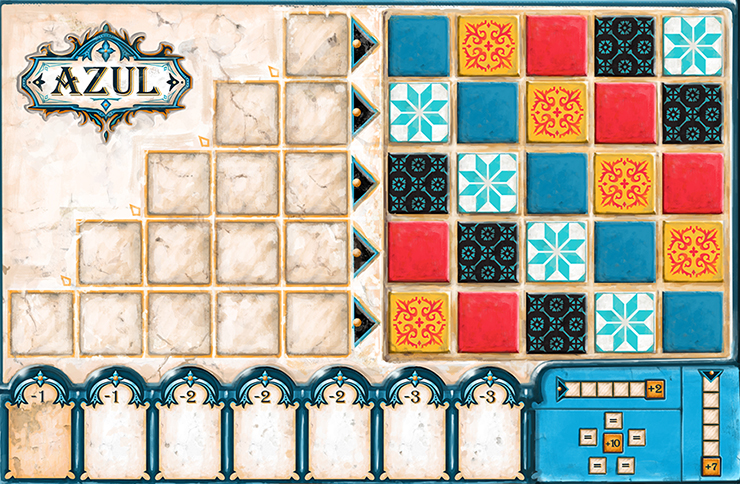
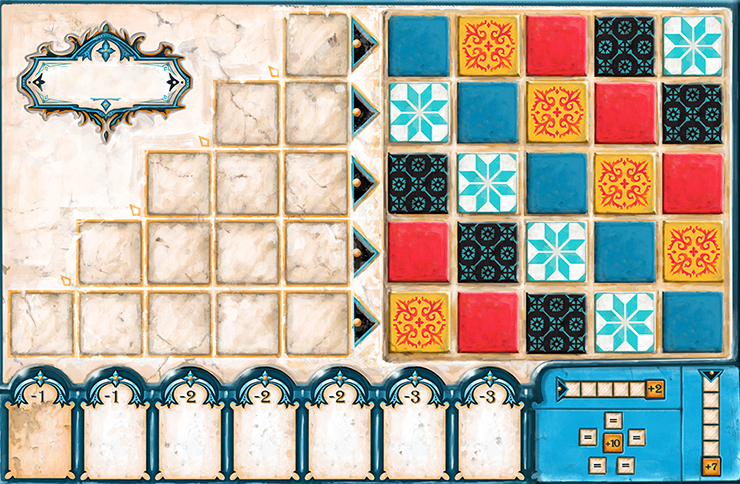
player board design

Changed region(s): [[0.0622, 0.124, 0.2176, 0.2169], [0.9635, 0.0, 1.0, 0.031]]

diff --git a/azul.js b/azul.js
@@ -17,23 +17,24 @@ function slideToObjectAndAttach(game, object, destinationId, posX, posY) {
     animation.play();
 }
 var FACTORY_RADIUS = 125;
-var HALF_TILE_SIZE = 31;
+var HALF_TILE_SIZE = 29;
 var Factories = /** @class */ (function () {
     function Factories(game, factoryNumber, factories) {
         this.game = game;
         this.factoryNumber = factoryNumber;
         var factoriesDiv = document.getElementById('factories');
         var radius = 40 + factoryNumber * 40;
-        var centerX = factoriesDiv.clientWidth / 2;
-        var centerY = radius + FACTORY_RADIUS;
-        factoriesDiv.style.height = centerY * 2 + "px";
+        var halfSize = radius + FACTORY_RADIUS;
+        var size = halfSize * 2 + "px";
+        factoriesDiv.style.width = size;
+        factoriesDiv.style.height = size;
         var html = "<div>";
         html += "<div id=\"factory0\" class=\"factory-center\"></div>";
         for (var i = 1; i <= factoryNumber; i++) {
             var angle = (i - 1) * Math.PI * 2 / factoryNumber; // in radians
             var left = radius * Math.sin(angle);
             var top_1 = radius * Math.cos(angle);
-            html += "<div id=\"factory" + i + "\" class=\"factory\" style=\"left: " + (centerX - FACTORY_RADIUS + left) + "px; top: " + (centerY - FACTORY_RADIUS - top_1) + "px;\"></div>";
+            html += "<div id=\"factory" + i + "\" class=\"factory\" style=\"left: " + (halfSize - FACTORY_RADIUS + left) + "px; top: " + (halfSize - FACTORY_RADIUS - top_1) + "px;\"></div>";
         }
         html += "</div>";
         dojo.place(html, 'factories');
@@ -95,13 +96,13 @@ var PlayerTable = /** @class */ (function () {
         var _this = this;
         this.game = game;
         this.playerId = Number(player.id);
-        var html = "<div id=\"player-table-wrapper-" + this.playerId + "\">\n        <div class=\"player-name\" style=\"color: #" + player.color + ";\">\n            " + player.name + "\n        </div>\n        <div id=\"player-table-" + this.playerId + "\" class=\"player-table\">";
+        var html = "<div id=\"player-table-wrapper-" + this.playerId + "\" class=\"player-table-wrapper\">\n        <div id=\"player-table-" + this.playerId + "\" class=\"player-table\" style=\"border-color: #" + player.color + ";\">";
         for (var i = 1; i <= 5; i++) {
             html += "<div id=\"player-table-" + this.playerId + "-line" + i + "\" class=\"line\" style=\"top: " + (10 + 70 * (i - 1)) + "px; width: " + (69 * i - 5) + "px;\"></div>";
         }
         html += "<div id=\"player-table-" + this.playerId + "-line0\" class=\"floor line\"></div>";
-        html += "<div id=\"player-table-" + this.playerId + "-wall\" class=\"wall\"></div>";
-        html += "    </div>\n        </div>";
+        html += "<div id=\"player-table-" + this.playerId + "-wall\" class=\"wall colored-side\"></div>";
+        html += "    </div>\n        \n            <div class=\"player-name\" style=\"color: #" + player.color + ";\">" + player.name + "</div>\n            <div class=\"player-name dark\">" + player.name + "</div>\n        </div>";
         dojo.place(html, 'players-tables');
         var _loop_2 = function (i) {
             document.getElementById("player-table-" + this_1.playerId + "-line" + i).addEventListener('click', function () { return _this.game.selectLine(i); });
@@ -122,9 +123,9 @@ var PlayerTable = /** @class */ (function () {
     }
     PlayerTable.prototype.placeTilesOnLine = function (tiles, line) {
         var _this = this;
-        var top = line ? 0 : 43;
+        var top = line ? 0 : 45;
         tiles.forEach(function (tile) {
-            var left = line ? (line - tile.column) * 69 : 3 + (tile.column - 1) * 74;
+            var left = line ? (line - tile.column) * 69 : 5 + (tile.column - 1) * 74;
             _this.game.placeTile(tile, "player-table-" + _this.playerId + "-line" + line, left, top);
         });
     };

diff --git a/src/players-tables/_players-tables.scss b/src/players-tables/_players-tables.scss
@@ -1,49 +1,90 @@
-.player-table {
-    background: url('img/playerboard.jpg');
-    width: 740px;
-    height: 484px;
+
+#players-tables {
+    display: flex;
+    flex-wrap: wrap;
+    justify-content: space-evenly;
+    align-items: center;
+}
+
+.player-table-wrapper {
     position: relative;
 
-    .line {
-        display: inline-block;
+    .player-name {
         position: absolute;
-        right: 389px;
-        border: 3px dashed transparent;
-        height: 63px;
-        pointer-events: none;
+        font-size: 20px;
+        font-family: 'Algeria';
+        top: 80px;
+        left: 53px;
+        width: 120px;
+        text-align: center;
+        vertical-align: middle;
+        text-transform: uppercase;
+        text-overflow: ellipsis;
+        white-space: nowrap;
 
-        &.floor {
-            right: 209px;
-            top: 362px;
-            left: 1px;
-            height: 116px;
-        }
-
-        &.selectable {
-            border-color: red;
-            pointer-events: all;
-            cursor: pointer;
+        &.dark {
+            color: #012c3c;
+            top: 79px;
+            left: 52px;
         }
     }
+    
+    .player-table {
+        background: url('img/playerboard.jpg');
+        width: 740px;
+        height: 484px;
+        position: relative;
 
-    .wall {
-        position: absolute;
-        top: 12px;
-        left: 385px;
-        width: 337px;
-        height: 339px;
+        border: 2px solid black;
+        border-radius: 8px;
+        margin: 5px;
 
-        .tile {
-            &.highlight {
-                animation: highlight-animation 0.7s alternate 2;
+        .line {
+            display: inline-block;
+            position: absolute;
+            right: 389px;
+            border: 3px dashed transparent;
+            height: 63px;
+            pointer-events: none;
+
+            &.floor {
+                right: 209px;
+                top: 362px;
+                left: 1px;
+                height: 116px;
             }
-            
-            @keyframes highlight-animation {
-                100% { 
-                    box-shadow: 0 0 30px 15px white;
+
+            &.selectable {
+                border-color: red;
+                pointer-events: all;
+                cursor: pointer;
+            }
+        }
+
+        .wall {
+            position: absolute;
+            top: 12px;
+            left: 385px;
+            width: 339px;
+            height: 341px;
+
+            &.colored-side {
+                background: #ffffffb0;
+                box-shadow: 0 0 10px 5px #ffffffb0;
+            }
+
+            .tile {
+                &.highlight {
+                    animation: highlight-animation 0.7s alternate 2;
                 }
+                
+                @keyframes highlight-animation {
+                    100% { 
+                        box-shadow: 0 0 30px 15px white;
+                    }
+                }
+                
             }
-            
         }
     }
 }

diff --git a/azul.css b/azul.css
@@ -20,13 +20,44 @@
   pointer-events: all;
 }
 
-.player-table {
+#players-tables {
+  display: flex;
+  flex-wrap: wrap;
+  justify-content: space-evenly;
+  align-items: center;
+}
+
+.player-table-wrapper {
+  position: relative;
+}
+.player-table-wrapper .player-name {
+  position: absolute;
+  font-size: 20px;
+  font-family: "Algeria";
+  top: 80px;
+  left: 53px;
+  width: 120px;
+  text-align: center;
+  vertical-align: middle;
+  text-transform: uppercase;
+  text-overflow: ellipsis;
+  white-space: nowrap;
+}
+.player-table-wrapper .player-name.dark {
+  color: #012c3c;
+  top: 79px;
+  left: 52px;
+}
+.player-table-wrapper .player-table {
   background: url("img/playerboard.jpg");
   width: 740px;
   height: 484px;
   position: relative;
+  border: 2px solid black;
+  border-radius: 8px;
+  margin: 5px;
 }
-.player-table .line {
+.player-table-wrapper .player-table .line {
   display: inline-block;
   position: absolute;
   right: 389px;
@@ -34,25 +65,29 @@
   height: 63px;
   pointer-events: none;
 }
-.player-table .line.floor {
+.player-table-wrapper .player-table .line.floor {
   right: 209px;
   top: 362px;
   left: 1px;
   height: 116px;
 }
-.player-table .line.selectable {
+.player-table-wrapper .player-table .line.selectable {
   border-color: red;
   pointer-events: all;
   cursor: pointer;
 }
-.player-table .wall {
+.player-table-wrapper .player-table .wall {
   position: absolute;
   top: 12px;
   left: 385px;
-  width: 337px;
-  height: 339px;
+  width: 339px;
+  height: 341px;
 }
-.player-table .wall .tile.highlight {
+.player-table-wrapper .player-table .wall.colored-side {
+  background: #ffffffb0;
+  box-shadow: 0 0 10px 5px #ffffffb0;
+}
+.player-table-wrapper .player-table .wall .tile.highlight {
   animation: highlight-animation 0.7s alternate 2;
 }
 @keyframes highlight-animation {
@@ -62,8 +97,8 @@
 }
 
 .tile {
-  width: 62px;
-  height: 62px;
+  width: 58px;
+  height: 58px;
   display: inline-block;
   position: absolute;
   border: 2px outset;
@@ -100,4 +135,11 @@ html {
   background: url("img/background.jpg") #00587a;
   background-repeat: repeat;
   background-blend-mode: multiply;
+}
+
+@font-face {
+  font-family: "Algeria";
+  src: url("img/algeria.woff2") format("woff2"), url("img/algeria.woff") format("woff");
+  font-weight: normal;
+  font-style: normal;
 }

diff --git a/src/players-tables/player-table.ts b/src/players-tables/player-table.ts
@@ -7,17 +7,17 @@ class PlayerTable {
 
         this.playerId = Number(player.id);
 
-        let html = `<div id="player-table-wrapper-${this.playerId}">
-        <div class="player-name" style="color: #${player.color};">
-            ${player.name}
-        </div>
-        <div id="player-table-${this.playerId}" class="player-table">`;
+        let html = `<div id="player-table-wrapper-${this.playerId}" class="player-table-wrapper">
+        <div id="player-table-${this.playerId}" class="player-table" style="border-color: #${player.color};">`;
         for (let i=1; i<=5; i++) {
             html += `<div id="player-table-${this.playerId}-line${i}" class="line" style="top: ${10 + 70*(i-1)}px; width: ${69*i - 5}px;"></div>`;
         }
         html += `<div id="player-table-${this.playerId}-line0" class="floor line"></div>`;
-        html += `<div id="player-table-${this.playerId}-wall" class="wall"></div>`;
+        html += `<div id="player-table-${this.playerId}-wall" class="wall colored-side"></div>`;
         html += `    </div>
+        
+            <div class="player-name" style="color: #${player.color};">${player.name}</div>
+            <div class="player-name dark">${player.name}</div>
         </div>`;
 
         dojo.place(html, 'players-tables');
@@ -35,9 +35,9 @@ class PlayerTable {
     }
 
     public placeTilesOnLine(tiles: Tile[], line: number) {
-        const top = line ? 0 : 43;
+        const top = line ? 0 : 45;
         tiles.forEach(tile => {
-            const left = line ? (line - tile.column) * 69 : 3 + (tile.column-1) * 74;
+            const left = line ? (line - tile.column) * 69 : 5 + (tile.column-1) * 74;
             this.game.placeTile(tile, `player-table-${this.playerId}-line${line}`, left, top);
         });
     }

diff --git a/src/factories/factories.ts b/src/factories/factories.ts
@@ -1,5 +1,5 @@
 const FACTORY_RADIUS = 125;
-const HALF_TILE_SIZE = 31;
+const HALF_TILE_SIZE = 29;
 
 class Factories {
     constructor(
@@ -10,9 +10,10 @@ class Factories {
         const factoriesDiv = document.getElementById('factories');
 
         const radius = 40 + factoryNumber*40;
-        const centerX = factoriesDiv.clientWidth / 2;
-        const centerY = radius + FACTORY_RADIUS;
-        factoriesDiv.style.height = `${centerY*2}px`;
+        const halfSize = radius + FACTORY_RADIUS;
+        const size = `${halfSize*2}px`;
+        factoriesDiv.style.width = size;
+        factoriesDiv.style.height = size;
 
         let html = `<div>`;
         html += `<div id="factory0" class="factory-center"></div>`;
@@ -21,7 +22,7 @@ class Factories {
             const left = radius*Math.sin(angle);
             const top = radius*Math.cos(angle);
             
-            html += `<div id="factory${i}" class="factory" style="left: ${centerX-FACTORY_RADIUS+left}px; top: ${centerY-FACTORY_RADIUS-top}px;"></div>`;
+            html += `<div id="factory${i}" class="factory" style="left: ${halfSize-FACTORY_RADIUS+left}px; top: ${halfSize-FACTORY_RADIUS-top}px;"></div>`;
         }
         html += `</div>`;
 

diff --git a/src/azul.scss b/src/azul.scss
@@ -10,3 +10,11 @@ html {
     background-repeat: repeat;
     background-blend-mode: multiply;
 }
+
+@font-face {
+    font-family: 'Algeria';
+    src: url('img/algeria.woff2') format('woff2'),
+        url('img/algeria.woff') format('woff');
+    font-weight: normal;
+    font-style: normal;
+}

diff --git a/src/_tile.scss b/src/_tile.scss
@@ -1,6 +1,6 @@
 .tile {
-    width: 62px;
-    height: 62px;
+    width: 58px;
+    height: 58px;
     display: inline-block;
     position: absolute;
     border: 2px outset;
